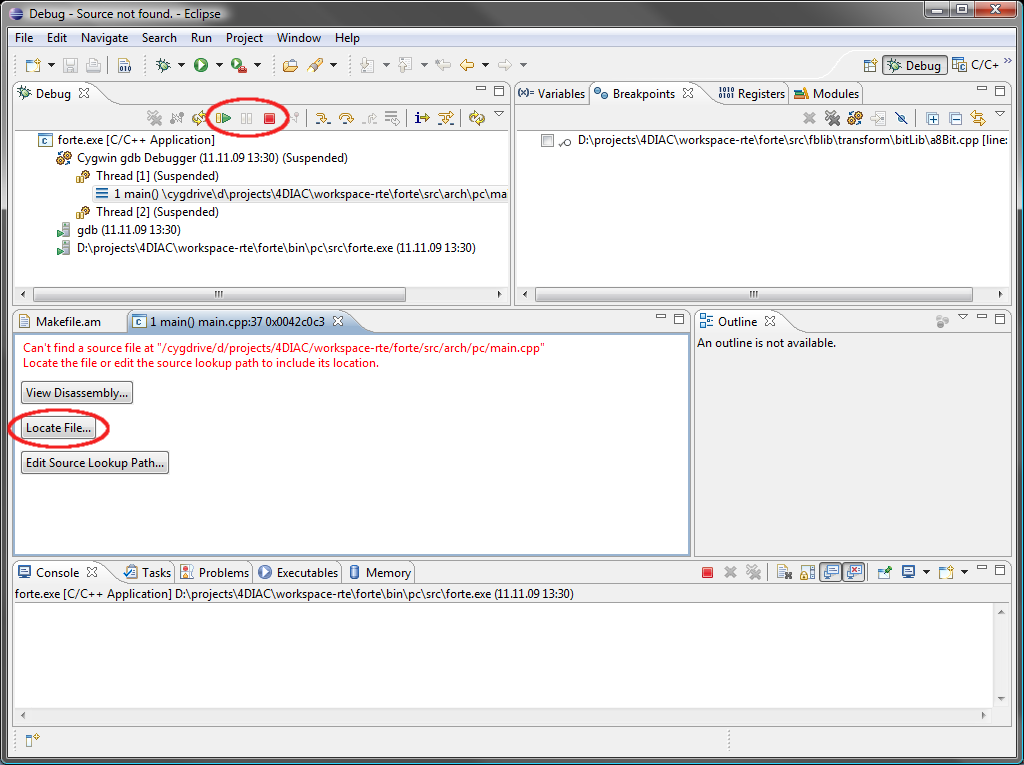
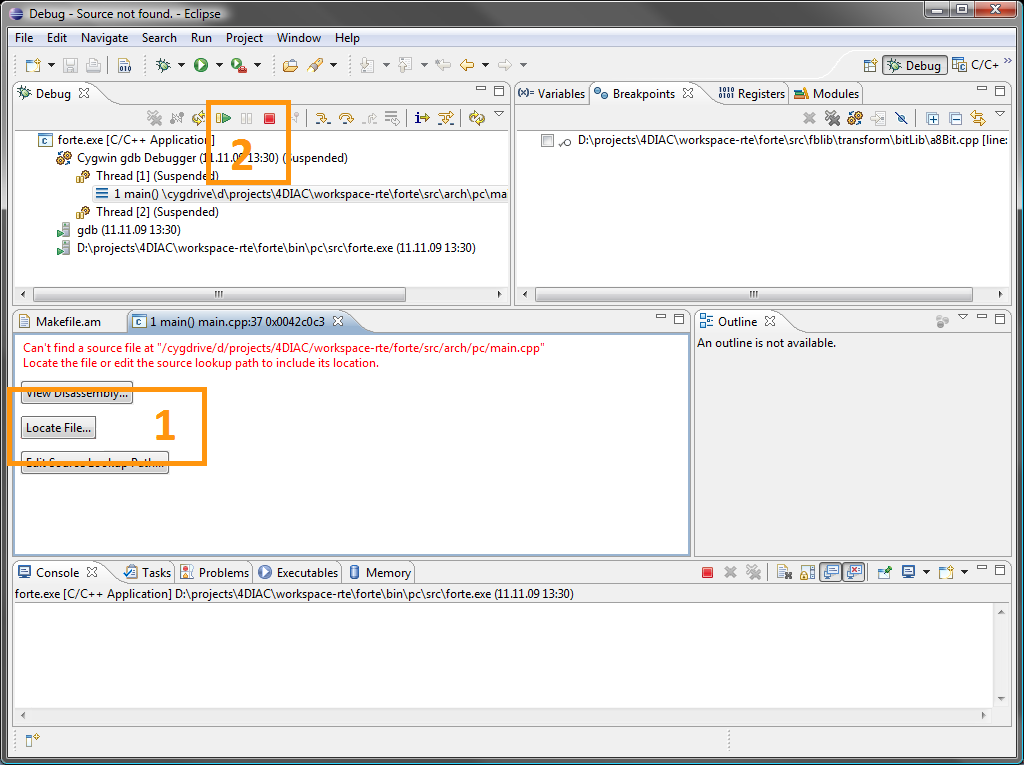
Small changes from feedback.
- Improve tester. 
- Improve number in images. 
- Cleaning of double white spaces and tabs

Changed region(s): [[0.0, 0.481, 0.2188, 0.6314], [0.1875, 0.1203, 0.2812, 0.2405], [0.0938, 0.5412, 0.125, 0.5712]]

diff --git a/plugins/org.eclipse.fordiac.ide/html/development/contributeToForte.html b/plugins/org.eclipse.fordiac.ide/html/development/contributeToForte.html
@@ -86,16 +86,16 @@
 					<li>
 						<p>Download Forte repository</p>
 						
-						<p>In Eclipse, go to File -> Import...-> Git -> Projects from Git. Click Next and then select Clone URI. Next. Paste https://git.eclipse.org/r/4diac/org.eclipse.4diac.forte in the URI field and then Next. Eclipse will connect to the repository and retrieve all the branches of it. Select all and click Next. Select the destination folder of the repository in your local machine and click Next. Wait while the repository is beeing downloaded. Click Next until is finished.</p>
+						<p>In Eclipse, go to File &rarr; Import...&rarr; Git &rarr; Projects from Git. Click Next and then select Clone URI. Next. Paste https://git.eclipse.org/r/4diac/org.eclipse.4diac.forte in the URI field and then Next. Eclipse will connect to the repository and retrieve all the branches of it. Select all and click Next. Select the destination folder of the repository in your local machine and click Next. Wait while the repository is beeing downloaded. Click Next until is finished.</p>
 					</li>
 					<li>
 						<p>Look around and move between branches</p>
 						
 						<p>Now, you have the newest code of Forte. The first thing to do when you download a project, is to look around. Check the folders, read the Documentation and readme files. Try to understand the folders and hierarchies. </p>
 						
-						<p>Right Click on the project, and then Team and you find all the possible commands regarding EGit. Team -> Show in History will show you all the commits in the current branch. Normally, master is the main branch. If Forte has another branch, and you want to work with it, you'll have to create a local branch that serves as reference of the original branch. That is, the Eclipse respository has a master branch (seen as origin/master), and for example a develop branch (seen as origin/develop). But you, locally, have only a master branch (seen as master). This local master is a reference to the origin/master and everything you change on it, will be then pushed to the origin/master. But if you want to work on the origin/develop branch, you'll need to create a local branch that references it. </p>
+						<p>Right Click on the project, and then Team and you find all the possible commands regarding EGit. Team &rarr; Show in History will show you all the commits in the current branch. Normally, master is the main branch. If Forte has another branch, and you want to work with it, you'll have to create a local branch that serves as reference of the original branch. That is, the Eclipse respository has a master branch (seen as origin/master), and for example a develop branch (seen as origin/develop). But you, locally, have only a master branch (seen as master). This local master is a reference to the origin/master and everything you change on it, will be then pushed to the origin/master. But if you want to work on the origin/develop branch, you'll need to create a local branch that references it. </p>
 						
-						<p>Right click on the project -> Team -> Switch To -> Other.... There you see the local and remote branches. Select the remote branch you want to work on, let's say origin/develop, and click Checkout. you'll get a message saying that you can watch the remote branch, or you can create a new branch locally to work on it. Click on Checkout as New Local Branch and then select a name for the local branch. The usual thing is to name the same as the original, so we'll call it develop (wihtout the "origin/" part) and finish. Now you can switch between the branches, and the changes in each one will be reflected in the corresponding origin. </p>
+						<p>Right click on the project &rarr; Team &rarr; Switch To &rarr; Other.... There you see the local and remote branches. Select the remote branch you want to work on, let's say origin/develop, and click Checkout. you'll get a message saying that you can watch the remote branch, or you can create a new branch locally to work on it. Click on Checkout as New Local Branch and then select a name for the local branch. The usual thing is to name the same as the original, so we'll call it develop (wihtout the "origin/" part) and finish. Now you can switch between the branches, and the changes in each one will be reflected in the corresponding origin. </p>
 						
 						<p>The Forte projects follows the workflow shown <a target="_blank" href="http://nvie.com/posts/a-successful-git-branching-model/">here</a>. Basically, the master branch is used to release versions and the develop for new stuff. You should always branch out from develop to work on something new.</p>
 					
@@ -105,7 +105,7 @@
 						
 						<p>Access the <a target="_blank" href="https://git.eclipse.org/r"> Gerrit </a> page in Eclipse to manage everything about Gerrit regarding your account. Click Sign In in the upper right corner and use the same email and password of your Eclipse account created in <a href="#EclipseAccount">step 1.1</a>. Once logged in, click on your name on the upper right corner, and then Settings. There you can change you preferences of messages, follow projects, manage password, among others. When you push something to Gerrit you can do it using ssh or https. SSH requires that you create the public and private keys, which are stored in files that Eclipse use then to connect to Gerrit. To know more about creating the keys and configuring in Eclipse, visit <a target="_blank" href="http://www.vogella.com/tutorials/EclipseGit/article.html#github"> here</a>, and then add the key in the SSH Public Keys setting in Gerrit. In this example we'll show the usage of https. </p>
 						
-						<p>Go to HTTP Password in the Settings page of Gerrit, copy the username that appears and click Generate Password. you'll get a random long password that you'll use every time you want to push something to Gerrit. Go to Eclipse, right-click on the project -> Team -> Show in Repositories View. Then, expand Remotes, and right-click on origin -> Gerrit Configuration.... In this step you can choose ssh, https or other as communication protocol. Choose https and paste your username from Gerrit in the field User. This will change the Push URI. In the Destination branch field, you should set the branch to push to. You can't push to a branch that doesn't exist in the Gerrit repository. Note that the destination branch begins with refs/for/. Click finish and see in the Repositories View that the Origin remote has changed the push URI. This means that when you send something to Forte, it will send to Gerrit, but when you get something from it, you'll get it from the actual repository. </p>
+						<p>Go to HTTP Password in the Settings page of Gerrit, copy the username that appears and click Generate Password. you'll get a random long password that you'll use every time you want to push something to Gerrit. Go to Eclipse, right-click on the project &rarr; Team &rarr; Show in Repositories View. Then, expand Remotes, and right-click on origin &rarr; Gerrit Configuration.... In this step you can choose ssh, https or other as communication protocol. Choose https and paste your username from Gerrit in the field User. This will change the Push URI. In the Destination branch field, you should set the branch to push to. You can't push to a branch that doesn't exist in the Gerrit repository. Note that the destination branch begins with refs/for/. Click finish and see in the Repositories View that the Origin remote has changed the push URI. This means that when you send something to Forte, it will send to Gerrit, but when you get something from it, you'll get it from the actual repository. </p>
 					</li>
 				</ol>
 			</li>
@@ -123,7 +123,7 @@
 						
 						<p>This is when you actually make the changes to the code. Open the files you want to change and simply make them. Try to make less than a 1000 changes for each commit in order to mantain the size of commits small.</p>
 						
-						<p>Open the Git Staging View in Eclipse by going to Window -> Show View -> Other... -> Git -> Git Staging. In the Unstaged Changes you see all the files that were changed. Right-click on them and then Add to index. The selected files will be moved to Staged Changes.</p>
+						<p>Open the Git Staging View in Eclipse by going to Window &rarr; Show View &rarr; Other... &rarr; Git &rarr; Git Staging. In the Unstaged Changes you see all the files that were changed. Right-click on them and then Add to index. The selected files will be moved to Staged Changes.</p>
 					</li>
 					<li>
 						<p id="CommitChanges">Commit the changes</p>
@@ -186,7 +186,7 @@
 					<li>
 						<p>Push the commit</p>
 						
-						<p>In the History View you can see the new commit you have just added. But the commit is locally, and no one else knows about it. It's time to push it to the repository in Eclipse. Right-click on your last commit -> Push commit.... A dialog will open. With the showed configurations, you are trying to push to the develop branch of the Gerrit called refs/heads/develop. But according to the Gerrit documentation you should push to the magic refs/for/[branch] branch. So, in the Dialog, instead of the develop branch as it appear, you should change that to refs/for/develop (not reds/heads/develop). Click next, and you'll be asked to introduce your https Gerrit password generated in <a href="#ConfigureGerrit">step 1.5</a>. The push confirmation says that a new branch is beeing created. Don't worry about that, and click Finish. Put the password again, and the push should succeed. If something fails, the error appears in the log.</p>
+						<p>In the History View you can see the new commit you have just added. But the commit is locally, and no one else knows about it. It's time to push it to the repository in Eclipse. Right-click on your last commit &rarr; Push commit.... A dialog will open. With the showed configurations, you are trying to push to the develop branch of the Gerrit called refs/heads/develop. But according to the Gerrit documentation you should push to the magic refs/for/[branch] branch. So, in the Dialog, instead of the develop branch as it appear, you should change that to refs/for/develop (not reds/heads/develop). Click next, and you'll be asked to introduce your https Gerrit password generated in <a href="#ConfigureGerrit">step 1.5</a>. The push confirmation says that a new branch is beeing created. Don't worry about that, and click Finish. Put the password again, and the push should succeed. If something fails, the error appears in the log.</p>
 					</li>
 				</ol>
 			</li>
@@ -239,7 +239,7 @@
 						johndoe@linuxmint ~/develop/repos/org.eclipse.4diac.forte $ git branch -a<br>
 						* master<br>
 						remotes/origin/1.8.x<br>
-						remotes/origin/HEAD -> origin/master<br>
+						remotes/origin/HEAD &rarr; origin/master<br>
 						remotes/origin/OPC_UA<br>
 						remotes/origin/develop<br>
 						remotes/origin/master<br>
@@ -378,7 +378,7 @@
 						remote:   https://git.eclipse.org/r/74832 [495477] Add conmeleon support to forte<br>
 						remote: <br>
 						To https://jdoexy5@git.eclipse.org/r/4diac/org.eclipse.4diac.forte<br>
-						* [new branch]      HEAD -> refs/for/develop<br>
+						* [new branch] HEAD &rarr; refs/for/develop<br>
 					</code>
 					<p>You have done it, good job! Now it's the reviewers turn and you'll see his or her comments in the Gerrit code review webpage.</p>
 				</li>

diff --git a/plugins/org.eclipse.fordiac.ide/html/installation/install.html b/plugins/org.eclipse.fordiac.ide/html/installation/install.html
@@ -54,13 +54,13 @@ $ git clone https://git.eclipse.org/r/4diac/org.eclipse.4diac.forte</div>
 
 <ol>
 
-<li><p>When starting the CMake-GUI you have to select the source directory, which is FORTE_FOLDER_ROOT and also the directory where to build the binaries (e.g. <span class="folderLocation">FORTE_FOLDER_ROOT/bin/posix</span> or <span class="folderLocation">FORTE_FOLDER_ROOT/bin/win32</span>, and so on) which is the output directory (let's call it OUTPUT_FOLDER). In OUTPUT_FOLDER, CMake will put the build project files (e.g., the makefiles) as well as any configuration data which then are compiled creating the executable. Then that you will need to press the <span class="button4diac">Configure</span> button at the low part of CMake. If you asked to create a folder if it doesn't exist, say yes.</p>
+<li><p>When starting the CMake-GUI you have to select the source directory (1), which is FORTE_FOLDER_ROOT and also the directory where to build the binaries (2) (e.g. <span class="folderLocation">FORTE_FOLDER_ROOT/bin/posix</span> or <span class="folderLocation">FORTE_FOLDER_ROOT/bin/win32</span>, and so on) which is the output directory (let's call it OUTPUT_FOLDER). In OUTPUT_FOLDER, CMake will put the build project files (e.g., the makefiles) as well as any configuration data which then are compiled creating the executable. Then you will need to press the <span class="button4diac">Configure</span> button (3) at the low part of CMake. If you asked to create a folder if it doesn't exist, say yes.</p>
 <div><img src="./img/CMakeFirstStep.png" alt="First step in CMake"></div></li>
 
 <li><p>A window will pop up that lets you select the kind of project you like to build. For the correct Project Setting please have a look at the settings for your corresponding platform in the links below, but making it short, in this first configuration you tell CMake if you would like to export the files as a project for Visual Studio, Eclipse or some other type of project, and the compiler you will use to compile the executable. In this step you would select the cross-compiler that you would use if you are compiling for a specific platform different from the one where you are compiling (for example, compiling for a Raspberry Pi or a PLC from a Windows or a Linux computer).</p>
 <div><img src="./img/CMakeSelectCompiler.png" alt="Select compiler in CMake"></div></li>
 
-<li><p>After selecting the type of project and compiler, the CMake main window shows a list of red marked options. The color red doesn't mean that something is wrong, but that these rows were affected by the last configuration, so they need to be checked. These options allow you to configure your FORTE build. The minimal configuration you have to perform is to select the architecture you like to build for using the <span class="specificText">FORTE_ARCHITECTURE</span> option and the modules with the function block libraries you like to enable (a basic configuration uses <span class="specificText">FORTE_MODULE_CONVERT</span>, <span class="specificText">FORTE_MODULE_IEC61131</span> and <span class="specificText">FORTE_MODULE_UTILS</span>). The modules that you enable, represent the group of Function Blocks that the your FORTE executable will contain. You should also keep the option <span class="specificText">FORTE_SUPPORT_MONITORING</span> enabled for Debugging and FB-Testing. Another important option is the <span class="specificText">CMAKE_BUILD_TYPE</span>, which determines if your building a <span class="specificText">Debug</span> or <span class="specificText">Release</span> version. Write the according word to the option to select.</p>
+<li><p>After selecting the type of project and compiler, the CMake main window shows a list of red marked options. The color red doesn't mean that something is wrong, but that these rows were affected by the last configuration, so they need to be checked. These options allow you to configure your FORTE build. The minimal configuration you have to perform is to select the architecture you like to build for using the <span class="specificText">FORTE_ARCHITECTURE</span> option and the modules with the function block libraries you like to enable (a basic configuration uses <span class="specificText">FORTE_MODULE_CONVERT</span>, <span class="specificText">FORTE_MODULE_IEC61131</span> and <span class="specificText">FORTE_MODULE_UTILS</span>). The modules that you enable, represent the group of Function Blocks that the your FORTE executable will contain. You should also keep the option <span class="specificText">FORTE_SUPPORT_MONITORING</span> (which is found when ticking the Advanced box)enabled for Debugging and FB-Testing. Another important option is the <span class="specificText">CMAKE_BUILD_TYPE</span>, which determines if your building a <span class="specificText">Debug</span> or <span class="specificText">Release</span> version. Write the according word to the option to select.</p>
 <div><img src="./img/CMakeBasicConfig.png" alt="Basic Configuration in CMake"></div></li>
 
 <li><p>After you change some options in CMake, you must press again Configure, until no more red rows appear. Then, press the <span class="button4diac">Generate</span> button to create the project files in OUTPUT_FOLDER.</p></li>
@@ -69,18 +69,18 @@ $ git clone https://git.eclipse.org/r/4diac/org.eclipse.4diac.forte</div>
 
 <h3>Compiling</h3>
 
-<p>The last part is compiling the generated project. This depend of the project output you selected in the previous step. Check the links below to see more details of your case.</p>
+<p>The last part is compiling the generated project. This depend of the project output you selected in the previous step. Check the links <a href="#FORTEWindowsUnix">below</a> to see more details of your case.</p>
 
 <p>For the development with FORTE the understanding of the general file structure is helpful. Therefore the essential parts as well as the Makefiles which are important for the configuration and compilation of FORTE are listed in the following:
 <ul>
 	<li><span class="folderLocation">src/modules</span>: this folder contains the source code (cpp, h) of all Function Blocks available for FORTE </li>
-	<li><span class="folderLocation">bin/[YOUR_SYSTEM]/src</span>: contains the FORTE executable after compilation with Makefile <span class="fileLocation">all</span></li>
-	<li><span class="folderLocation">bin/[YOUR_SYSTEM]/src_gen</span>: contains the object files generated during compilation with Makefile <span class="fileLocation">all</span></li>
-	<li><span class="fileLocation">all</span>: this Makefile generates the object files for all FORTE core files and Function Block source code files </li>
-	<li><span class="fileLocation">clean</span>: this makefile removes all generated object files. </li>
+	<li><span class="folderLocation">bin/[YOUR_SYSTEM]/src</span>: contains the FORTE executable after compilation</li>
+	<li><span class="folderLocation">bin/[YOUR_SYSTEM]/src_gen</span>: contains the object files generated during compilation</li>
 </ul>
 
 <h3 id="externalModules">Build external Modules</h3>
+
+<p>Before showing <a href="#FORTEWindowsUnix">how to compile</a>, this part of the documentation shows how to add your own function blocks to FORTE.</p>
 
 <p>When you create and export your own types, you need to add them to FORTE's compilation. In this case, we'll show as an example, how to add three function block called BasicTest, CompositeTest, and ServiceTest. The module's name will be EXAMPLE_TEST. Follow the directions below:</p>
 
@@ -106,13 +106,13 @@ forte_add_sourcefile_hcpp(ServiceTest)</div>
 
 <h2 id="FORTEWindowsUnix">FORTE for Windows and Unix-based systems</h2>
 
-<p>You can use different development Environments, whereas the C++ Compiler you can use to build FORTE not only depends on this environment but also on your operating system. For compiling FORTE under Windows you can use either Visual Studio (Express or full edition) or Eclipse. When using Eclipse for development and debugging under Windows you will need to use a Posix emulation environment like Cygwin or MinGW.</p>
+<p>You can use different development Environments, whereas the C++ Compiler you can use to build FORTE not only depends on this environment but also on your operating system. For compiling FORTE under Windows you can use either Visual Studio (Express or full edition) or Eclipse. When using Eclipse for development and debugging under Windows you will need to use a Posix emulation environment like MinGW or Cygwin.</p>
 			
 		<ul>
 			<li><p>Compilers</p>
 				<ul>
-					<li><a href="cygwin.html">Setting up Cygwin (Windows)</a></li>
 					<li><a href="minGW.html">Setting up MinGW (Windows)</a></li>
+					<li><a href="cygwin.html">Setting up Cygwin (Windows)</a></li>
 					<li>In Unix-like systems (Linux, raspberry pi, etc) you need to install binutils, gcc, gdb, make and cmake. To compile forte, you do
 					<div class="code">$ cd FORTE_FOLDER_ROOT/bin/[YOUR_SYSTEM]
 $ make</div> </li>

diff --git a/plugins/org.eclipse.fordiac.ide/html/examples/bbbTraficControl.html b/plugins/org.eclipse.fordiac.ide/html/examples/bbbTraficControl.html
@@ -63,7 +63,7 @@
 			
 			<h3>Transfering the source code to the BBB</h3>
 			
-			<p>To transfer the files from a windows machine to the BBB, an easy solution is the software <a target="_blank" href="https://winscp.net/eng/download.php">WinSCP</a> which allows to connect to the BBB and navigate the folders in it in a Graphic Interface. Connect to the BBB using the IP address in the same way as in SSH before. Once connected you will see two folder trees. The one on the left is your	local machine and the one on the right is th BBB. In WinSCP, navigate on both trees to the desired folders and select the files to transfer and then click "Upload" to transfer from machine -> BBB and "Download" to transfer BBB -> machine.</p>
+			<p>To transfer the files from a windows machine to the BBB, an easy solution is the software <a target="_blank" href="https://winscp.net/eng/download.php">WinSCP</a> which allows to connect to the BBB and navigate the folders in it in a Graphic Interface. Connect to the BBB using the IP address in the same way as in SSH before. Once connected you will see two folder trees. The one on the left is your local machine and the one on the right is th BBB. In WinSCP, navigate on both trees to the desired folders and select the files to transfer and then click "Upload" to transfer from machine &rarr; BBB and "Download" to transfer BBB &rarr; machine.</p>
 			
 			<p>If you can't or don't want to use WinSCP, you can do it via the terminal. In order to do that you will need <a target="_blank" href="http://www.chiark.greenend.org.uk/~sgtatham/putty/download.html">PSCP</a>, which does not have a Graphic Interface but it runs from the Command Windows (Terminal). Once you download it, you can append the folder name where the pscp.exe file is, in the PATH variable. If not, you can navigate in the terminal to the folder where the pscp.exe file is and execute there the following command:
 			<span class="inlineCode">pscp -r "[local FORTE path]" [BBB username]@[ip]:[remote FORTE folder]</span> where <span class="folderLocation">[local FORTE path]</span> is the folder on the windows machine where the source code of FORTE is, <span class="specificText">[BBB username]</span> 
@@ -96,7 +96,7 @@
 			
 			<h2 id="troubleshooting">Troubleshooting</h2>
 			
-			<p>In many cases the communication between the PC and the BBB fails, but mostly due to network configurations problems. Since multicast packets are used to communicate between devices, some adjustments may be needed, specially in windows machines. The first step is to add the multicast addresses used by the application to your route table. You will need admin rigts to do this. Run a command window (CTRL+R -> cmd -> enter), and type <span class="specificText">route PRINT</span> to see all the routes used by your PC. You should check that the multicast address used by the application appears there and uses your BBB Ip address as gateway. In the case of the traffic Light example it uses the address <span class="address">225.0.0.x</span>. In the picture belowe it can be seen that this address is missing.</p>
+			<p>In many cases the communication between the PC and the BBB fails, but mostly due to network configurations problems. Since multicast packets are used to communicate between devices, some adjustments may be needed, specially in windows machines. The first step is to add the multicast addresses used by the application to your route table. You will need admin rigts to do this. Run a command window (CTRL+R &rarr; cmd &rarr; enter), and type <span class="specificText">route PRINT</span> to see all the routes used by your PC. You should check that the multicast address used by the application appears there and uses your BBB Ip address as gateway. In the case of the traffic Light example it uses the address <span class="address">225.0.0.x</span>. In the picture belowe it can be seen that this address is missing.</p>
 			
 			<img src="./img/bbbTrafficController/routeMissing.png" alt="Route Missing"/>
 			

diff --git a/plugins/org.eclipse.fordiac.ide/html/examples/pidMotor.html b/plugins/org.eclipse.fordiac.ide/html/examples/pidMotor.html
@@ -29,7 +29,7 @@
 
 	<h3>Creating the PID FB</h3>
 
-	<p>The first thing to do is to create the PID functional block. Go to File->New->New type. In the pop-up menu, choose the parent folder to store the new FB, choose PID as the Type name, and select Basic.fbt as Type. Click Finish, and the view to edit the new FB will open. First, the interface must be configured. Use the image below to complete it</p>
+	<p>The first thing to do is to create the PID functional block. Go to File &rarr; New &rarr; New type. In the pop-up menu, choose the parent folder to store the new FB, choose PID as the Type name, and select Basic.fbt as Type. Click Finish, and the view to edit the new FB will open. First, the interface must be configured. Use the image below to complete it</p>
 
 	<img src="./img/pidMotor/PIDInterface.png" alt="Interface of the PID FB" />
 
@@ -167,7 +167,7 @@ END_IF; </code></div>
 
 	<h3>Exporting and compiling with FORTE for the Ev3</h3>
 
-	<p>Once the FB is ready, go to File->Export... and select 4DIAC->4DIAC Type Export. Then explore the folder tree on the left and select the PID FB created on the right. Choose where to export and then click Finish.</p>
+	<p>Once the FB is ready, go to File &rarr; Export... and select 4DIAC &rarr; 4DIAC Type Export. Then explore the folder tree on the left and select the PID FB created on the right. Choose where to export and then click Finish.</p>
 
 	<p>To get the source code ready to compile FORTE with the created FB, the generated .cpp and .h files have to be added to the CMAKE configuration. The easiest way to do it is to put both files in the folder src/modules/lms_ev3 and add to the CMakeLists.txt file in that folder, the following line at the end.</p>
 
@@ -209,7 +209,9 @@ END_IF; </code></div>
 
 	<h4>Configuring the system</h4>
 
-	<p>Now that the application is done, some other configurations are needed in the system. The first thing is to create both devices and connect them using the Ethernet segment. In the EV3 resource, the first thing to do is to connect the COLD START to the initialization of the StartButton as said before.</p>	<p>The other configuration in the EV3 resource is the publishing of the conversions of the position and output of the PID. Using a PUBLISH_2_0 with both input and the multicast UDP ID (in this case, 239.192.0.2:65000), and the REQ triggerred by the E_REND FB from the application. With this, the EV3 will send the position and output of the PID to the ID address everytime both conversion are done.</p>
+	<p>Now that the application is done, some other configurations are needed in the system. The first thing is to create both devices and connect them using the Ethernet segment. In the EV3 resource, the first thing to do is to connect the COLD START to the initialization of the StartButton as said before.</p>
+
+  <p>The other configuration in the EV3 resource is the publishing of the conversions of the position and output of the PID. Using a PUBLISH_2_0 with both input and the multicast UDP ID (in this case, 239.192.0.2:65000), and the REQ triggerred by the E_REND FB from the application. With this, the EV3 will send the position and output of the PID to the ID address everytime both conversion are done.</p>
 
 	<img src="./img/pidMotor/PIDPublish.png" alt="Publishing the data to the PC" />
 

diff --git a/plugins/org.eclipse.fordiac.ide/html/4diacIDE/overview.html b/plugins/org.eclipse.fordiac.ide/html/4diacIDE/overview.html
@@ -74,9 +74,9 @@
 <ol>
 	<li><span class="inlineTitle">System Management area</span>, which is used for the management of IEC 61499 compliant applications and to configure <span class="element61499">Devices</span> and <span class="element61499">Resources</span>. In a tab next to it, there's the <span class="IDEelement">Type Navigator</span>, which lists the available function block library for every <span class="element61499">System</span> as well as the default library.</li> 
 	<li><span class="inlineTitle">Editor area</span>, which contains the <span class="IDEelement">Application editor</span>  for modeling of control applications, the <span class="IDEelement">System editor</span>  for modeling the <span class="element61499">System</span> configuration, and the <span class="IDEelement">Device</span> and <span class="IDEelement">Resource editor</span>  for modeling the <span class="element61499">Resource</span> configuration</li>
-	<li><span class="inlineTitle">Property view</span>, which allows the parameterization of function block instances, <span class="element61499">Devices</span>, and <span class="element61499">Resources</span></li>
-	<li><span class="inlineTitle">Outline</span> of <span class="element61499">Applications</span>, <span class="element61499">System</span> configurations, <span class="element61499">Devices</span>, and <span class="element61499">Resources</span></li>
 	<li><span class="inlineTitle">Palette</span>: shows the elements that you can add to the editor.</li>
+	<li><span class="inlineTitle">Outline</span> of <span class="element61499">Applications</span>, <span class="element61499">System</span> configurations, <span class="element61499">Devices</span>, and <span class="element61499">Resources</span></li>
+	<li><span class="inlineTitle">Property view</span>, which allows the parameterization of function block instances, <span class="element61499">Devices</span>, and <span class="element61499">Resources</span></li>
 </ol>
 <p><img src="./img/perspective/systemPerspective.png" alt="System Perspective Button"/></p>
 
@@ -105,10 +105,10 @@ Service Interface Function Block Types</li>
 <p>In the right upper corner the perspective can be changed. The <span class="view4diac">Debug perspective</span> is reached by the <img src="./img/perspective/debugButton.gif" alt="Debug Perspective Button" class="inlineImg"/> button. The <span class="view4diac">Debug perspective</span> is divided into the following five areas.</p>
 <ol>
 	<li>System selection where Systems can be marked for monitoring with right click and choosing <span class="menu4diac">Monitor System</span></li> 
-	<li>Outline</li>
 	<li>Breakpoints view which lists the defined breakpoints and allows their activation and deactivation, this feature is currently not supported</li>
 	<li>Watches view which allow to watch the actual values of the variables you marked for watching</li>
 	<li>Application editor which shows your <span class="element61499">Application</span> and highlights the variables marked for watching</li>
+	<li>Outline</li>
 </ol>
 <p><img src="./img/perspective/debugPerspective.png" alt="Debug Perspective Button"/></p>
 

diff --git a/plugins/org.eclipse.fordiac.ide/html/installation/eclipse.html b/plugins/org.eclipse.fordiac.ide/html/installation/eclipse.html
@@ -37,7 +37,7 @@
 
 <ol>
 	<li>Import FORTE by <span class="menu4diac">File &rarr; Import... &rarr; General &rarr; Existing Project into Workspace</span>. In case your Workspace is one folder above your source code folder you only have to click on <span class="button4diac">Browse...</span> and <span class="button4diac">OK</span> afterwards to import FORTE into Eclipse. Otherwise select the directory where you have extracted your FORTE and check <span class="menu4diac">Copy into workspace</span> (otherwise the source will stay at the original place).</li>
-	<li>Start Make Targets View by <span class="menu4diac">Window &rarr; Show View &rarr; Build Targets</span> if it is not open already. Choose the makefile: <span class="fileLocation">bin/posix/all</span> to compile FORTE to a executable application. If you don't see the targets (all or clean), you can create them in the same window. Make sure that you create them in the right folder.
+	<li>Start Make Targets View by <span class="menu4diac">Window &rarr; Show View &rarr; Build Targets</span> if it is not open already. Double click the makefile: <span class="fileLocation">bin/[YOUR_SYSTEM]/all</span> to compile FORTE to a executable application. If you don't see the targets (all or clean), you can create them in the same window. Make sure that you create them in the right folder.
 	<div><img src="./img/eclipseMakefiles.png" alt="Eclipse C++ with FORTE imported and marked makefiles"></div></li>
 	
 </ol>
@@ -52,11 +52,11 @@
 		
 	<li>Click <span class="button4diac">Debug</span></li>
 	<li>Confirm for changing into the Debug view</li>
-	<li>In case you don't see the file where the debugger stopped at the beggining, press the <span class="button4diac">Locate File</span> button and navigate to the Eclipse workspace which contains the extracted FORTE, type <span class="specificText">main</span> into the search field of the Windows Explorer and select the offered <span class="fileLocation">main.cpp</span>. FORTE is now stopped at the <span class="specificText">main()</span> function.
+	<li>In case you don't see the file where the debugger stopped at the beggining, press the <span class="button4diac">Locate File</span> button (1) and navigate to the Eclipse workspace which contains the extracted FORTE, type <span class="specificText">main</span> into the search field of the Windows Explorer and select the offered <span class="fileLocation">main.cpp</span>. FORTE is now stopped at the <span class="specificText">main()</span> function.
 	<div><img src="./img/eclipseDebug.png" alt="Eclipse C++ Debug View"></div></li>
 		
 
-	<li>Press the <span class="button4diac">Resume</span> button to run FORTE and observe the behavior of our application.</li>
+	<li>Press the <span class="button4diac">Resume</span> button (2) to run FORTE and observe the behavior of our application.</li>
 	<li>Always press the <span class="button4diac">Terminate</span> button for stopping a FORTE launched within Eclipse. This avoids FORTE running in the background (not always shown in Task Manager).</li>
 </ol>
 

diff --git a/plugins/org.eclipse.fordiac.ide/html/installation/minGW.html b/plugins/org.eclipse.fordiac.ide/html/installation/minGW.html
@@ -33,13 +33,17 @@
 <p>After installing, press <span class="button4diac">Windows Key + Pause</span>. In the System window, click <span class="button4diac">Advanced System Settings &rarr; Advanced (tab) &rarr; Environment Variables</span>. Change PATH variable (click on it), and add the path where your MinGW binaries have been installed in e.g., <span class="folderLocation">C:\MinGW\bin\</span>. Add <span class="folderLocation">C:\MinGW\bin;C:\MinGW\msys\1.0\bin;</span> in the Windows PATH variable. Try to give it in the beginning of the path or most likely after <span class="folderLocation">C:\Program Files\Common Files\Microsoft Shared\Windows Live;</span>.</p> 
 
 <h2>Test MinGW</h2>
-<p>Open command prompt window by pressing <span class="button4diac">Windows</span> button and entering <span class="inlineCode">cmd</span>. Enter <span class="inlineCode">bash</span>, if bash prompt appears, it was successful.</p>
+<p>Open command prompt window by pressing <span class="button4diac">Windows</span> button and entering <span class="inlineCode">cmd</span>. Enter <span class="inlineCode">g++ --version</span>, and if you can see some information about the version of the compiler, it was susscesfull. If you get an error like "Command g++ not found", then you must have done something wrong.</p>
+
+<h2>Change name of the make executable</h2>
+
+<p>In your installation folder, inside the <span class="folderLocation">bin</span> directory, you should find a file called <span class="fileLocation">mingw32-make.exe</span>. Copy this file in the same directory and change it to <span class="fileLocation">make.exe</span>. This is because this file is the one you will use to compile FORTE, and "make" is the command used throughout the documentation for it.</p>
 
 <h2>CMake and Compilation</h2>
 
-<p>In step 2 of <a href="./install.html#generateFilesForCompiling">Generate files for compiling</a>, you have to select <span class="specificText">MSYS Makefiles</span> or <span class="specificText">MinGW Makefiles</span> when working with MinGW. The architecture option should be set to Win32.</p>
+<p>In step 2 of <a href="./install.html#generateFilesForCompiling">Generate files for compiling</a>, you have to select <span class="specificText">Unix Makefiles</span>, <span class="specificText">MSYS Makefiles</span> or <span class="specificText">MinGW Makefiles</span> when working with MinGW. The architecture option should be set to Win32.</p>
 
-<p>To compile forte, you do</p>
+<p>After generating in CMake, to compile forte, you do</p>
 <div class="code">$ cd FORTE_FOLDER_ROOT/bin/[YOUR_SYSTEM]
 $ make</div>
 

diff --git a/plugins/org.eclipse.fordiac.ide/html/development/externalEvent_example.html b/plugins/org.eclipse.fordiac.ide/html/development/externalEvent_example.html
@@ -47,7 +47,7 @@
 
 <div class="code">EVENT_SOURCE_FUNCTION_BLOCK_CTOR(FORTE_SIBF_T_FF3){
 	    m_stEventSourceEventEntry.m_poFB = this;
-	    setEventChainExecutor(pa_poSrcRes->getResourceEventExecution());
+	    setEventChainExecutor(pa_poSrcRes-&gt;getResourceEventExecution());
 	    m_bActive = false;
 	    m_stTimeListEntry.m_stTimeOut.m_nLowerValue = 0;
 	    m_stTimeListEntry.m_stTimeOut.m_nUpperValue = 0;
@@ -70,13 +70,13 @@
 	  break;
 	case scm_nEventSTOPID:
 	  if(m_bActive){
-		CTimerHandler::sm_poFORTETimer->unregisterTimedFB(this);
+		CTimerHandler::sm_poFORTETimer-&gt;unregisterTimedFB(this);
 		m_bActive = false;
 	  }
 	  break;
 	case scm_nEventSTARTID:
 	  if(!m_bActive){
-		CTimerHandler::sm_poFORTETimer->registerTimedFB( &m_stTimeListEntry, DT());
+		CTimerHandler::sm_poFORTETimer-&gt;registerTimedFB(&m_stTimeListEntry, DT());
 		m_bActive = true;
 	  }
 	  break;
@@ -89,11 +89,11 @@
 
 <h2>Sending External Events</h2>
 <p>To send External Events your Class must inherit from <span class="specificText">CExternalEventHandler</span>. In the Constructor you must register this class:</p>
-<div class="specificText">m_nExtEvHandID = sm_poDeviceExecution->registerExternalEventHandler(this);</div>
+<div class="specificText">m_nExtEvHandID = sm_poDeviceExecution-&gt;registerExternalEventHandler(this);</div>
 
 <p>Then you can send External Events with:</p>
-<div class="specificText">if(sm_poDeviceExecution->extEvHandlerIsAllowed(m_nExtEvHandID)){
-   sm_poDeviceExecution->startNewEventChain(pointerToTargetFB);
+<div class="specificText">if(sm_poDeviceExecution-&gt;extEvHandlerIsAllowed(m_nExtEvHandID)){
+   sm_poDeviceExecution-&gt;startNewEventChain(pointerToTargetFB);
 }</div>
 
 <h1>Where to go from here?</h1>

diff --git a/plugins/org.eclipse.fordiac.ide/html/communication/fbdkip.html b/plugins/org.eclipse.fordiac.ide/html/communication/fbdkip.html
@@ -36,8 +36,7 @@
 
 <h2 id="publishSubscribe">Publish/Subscribe - UDP/IP</h2>
 
-<p>To communicate using Publish/Subscribe FBs, a UDP/IP connection is utilized, so we have to provide the Publish/Subscribe Function Blocks with a multicast IP address and a port.
-	The Publish FBs will send data over the network in this multicast IP address/port and the Subscribe FBs will listen to the same multicast IP address/port receiving any data sent by the Publish FBs. Multicast IP addresses can be picked from the range 224.0.0.0 - 239.255.255.255, while the port is arbitrary. So an example ID parameter for the Publish/Subscribe FBs would be:</p>
+<p>To communicate using Publish/Subscribe FBs, a UDP/IP connection is utilized, so we have to provide the Publish/Subscribe Function Blocks with a multicast IP address and a port. The Publish FBs will send data over the network in this multicast IP address/port and the Subscribe FBs will listen to the same multicast IP address/port receiving any data sent by the Publish FBs. Multicast IP addresses can be picked from the range 224.0.0.0 - 239.255.255.255, while the port is arbitrary. So an example ID parameter for the Publish/Subscribe FBs would be:</p>
 	
 <div class="code">225.0.0.1:61499</div>
 

diff --git a/plugins/org.eclipse.fordiac.ide/html/communication/opc_ua.html b/plugins/org.eclipse.fordiac.ide/html/communication/opc_ua.html
@@ -75,8 +75,7 @@ $ mkdir build &amp;&amp; cd "build"</div>
 	</li>
 	<li>Use CMake to generate all the build files. Download and install: <a href="https://cmake.org/download/" target="_blank">https://cmake.org/download/</a>
 	</li>
-	<li>Open the <span class="folderLocation">$HOME/4diac/forte</span> folder in CMake, and set the output for the build binaries to the <span class="folderLocation">forte/build</span>
-		folder.
+	<li>Open the <span class="folderLocation">$HOME/4diac/forte</span> folder in CMake, and set the output for the build binaries to the <span class="folderLocation">forte/build</span>folder.
 	</li>
 	<li>Press <span class="button4diac">Configure</span> and select your Visual Studio Version. (Make sure you select your installed VS version. Otherwise CMake does not find the C/C++ compiler. Activate <span class="specificText">Use default native compilers</span></li>
 	<li>Set <span class="specificText">FORTE_ARCHITECTURE</span> to <span class="specificText">Win32</span>, <span class="specificText">FORTE_MODULE_CONVERT=ON</span>, <span class="specificText">FORTE_MODULE_IEC61131=ON</span>, and press two times on cofigure. All red entries should now be gone.

diff --git a/plugins/org.eclipse.fordiac.ide/html/parameters/parameters.html b/plugins/org.eclipse.fordiac.ide/html/parameters/parameters.html
@@ -114,18 +114,18 @@
 	<ul>
 		<li>At the beginning, right after the first #define add:
 		<div class="code">//----------------------------------------------------------------------------//
-// take precautions if compiled with C++ compiler								//
-#ifdef __cplusplus																//
-extern "C" {																	//
-#endif																			//
+// take precautions if compiled with C++ compiler
+#ifdef __cplusplus
+extern "C" {
+#endif
 //----------------------------------------------------------------------------//</div>
 		</li>
 		<li>And at the end, right before the last #endif, add
 			<div class="code">//----------------------------------------------------------------------------//
-#ifdef __cplusplus																//
-}																				//
-#endif																			//
-// end of C++ compiler wrapper													//
+#ifdef __cplusplus
+}
+#endif
+// end of C++ compiler wrapper
 //----------------------------------------------------------------------------//</div>
 		</li>
 	</ul>

diff --git a/plugins/org.eclipse.fordiac.ide/html/4diacIDE/distribute4diac.html b/plugins/org.eclipse.fordiac.ide/html/4diacIDE/distribute4diac.html
@@ -99,11 +99,12 @@
 <p>Similar on how it was done to deploy the Blink application is done for two. The only difference is that in this case we launch 1 FORTE instance and 1 FBRT instance in the Deployment Perspective. First set Windows &rarr; Preferences &rarr; 4DIAC &rarr; FBRT Preferences to the fbrt.jar file located under runtime/FBRT in your 4DIAC folder.</p>
 
 <ol>
-  <li>Sele both devices in the Donwload Selection</li>
+  <li>Select both devices in the Donwload Selection</li>
   <li>Launch one FORTE instance. The port should be one specified in the System Configuration (has nothing to do with the IP:PORT used with UDP to send events)</li>
   <li>Launch one FBRT instance. The same care must be taken regarding the port. This will open a GUI frame.</li>
   <li>Download the application</li>
-  <li>Check that you don't get any error, and you should see the buttons in the GUI.</li>
+  <li>Check that you don't get any error.</li>
+  <li>You should see the buttons in the GUI.</li>
 
 </ol>
 
